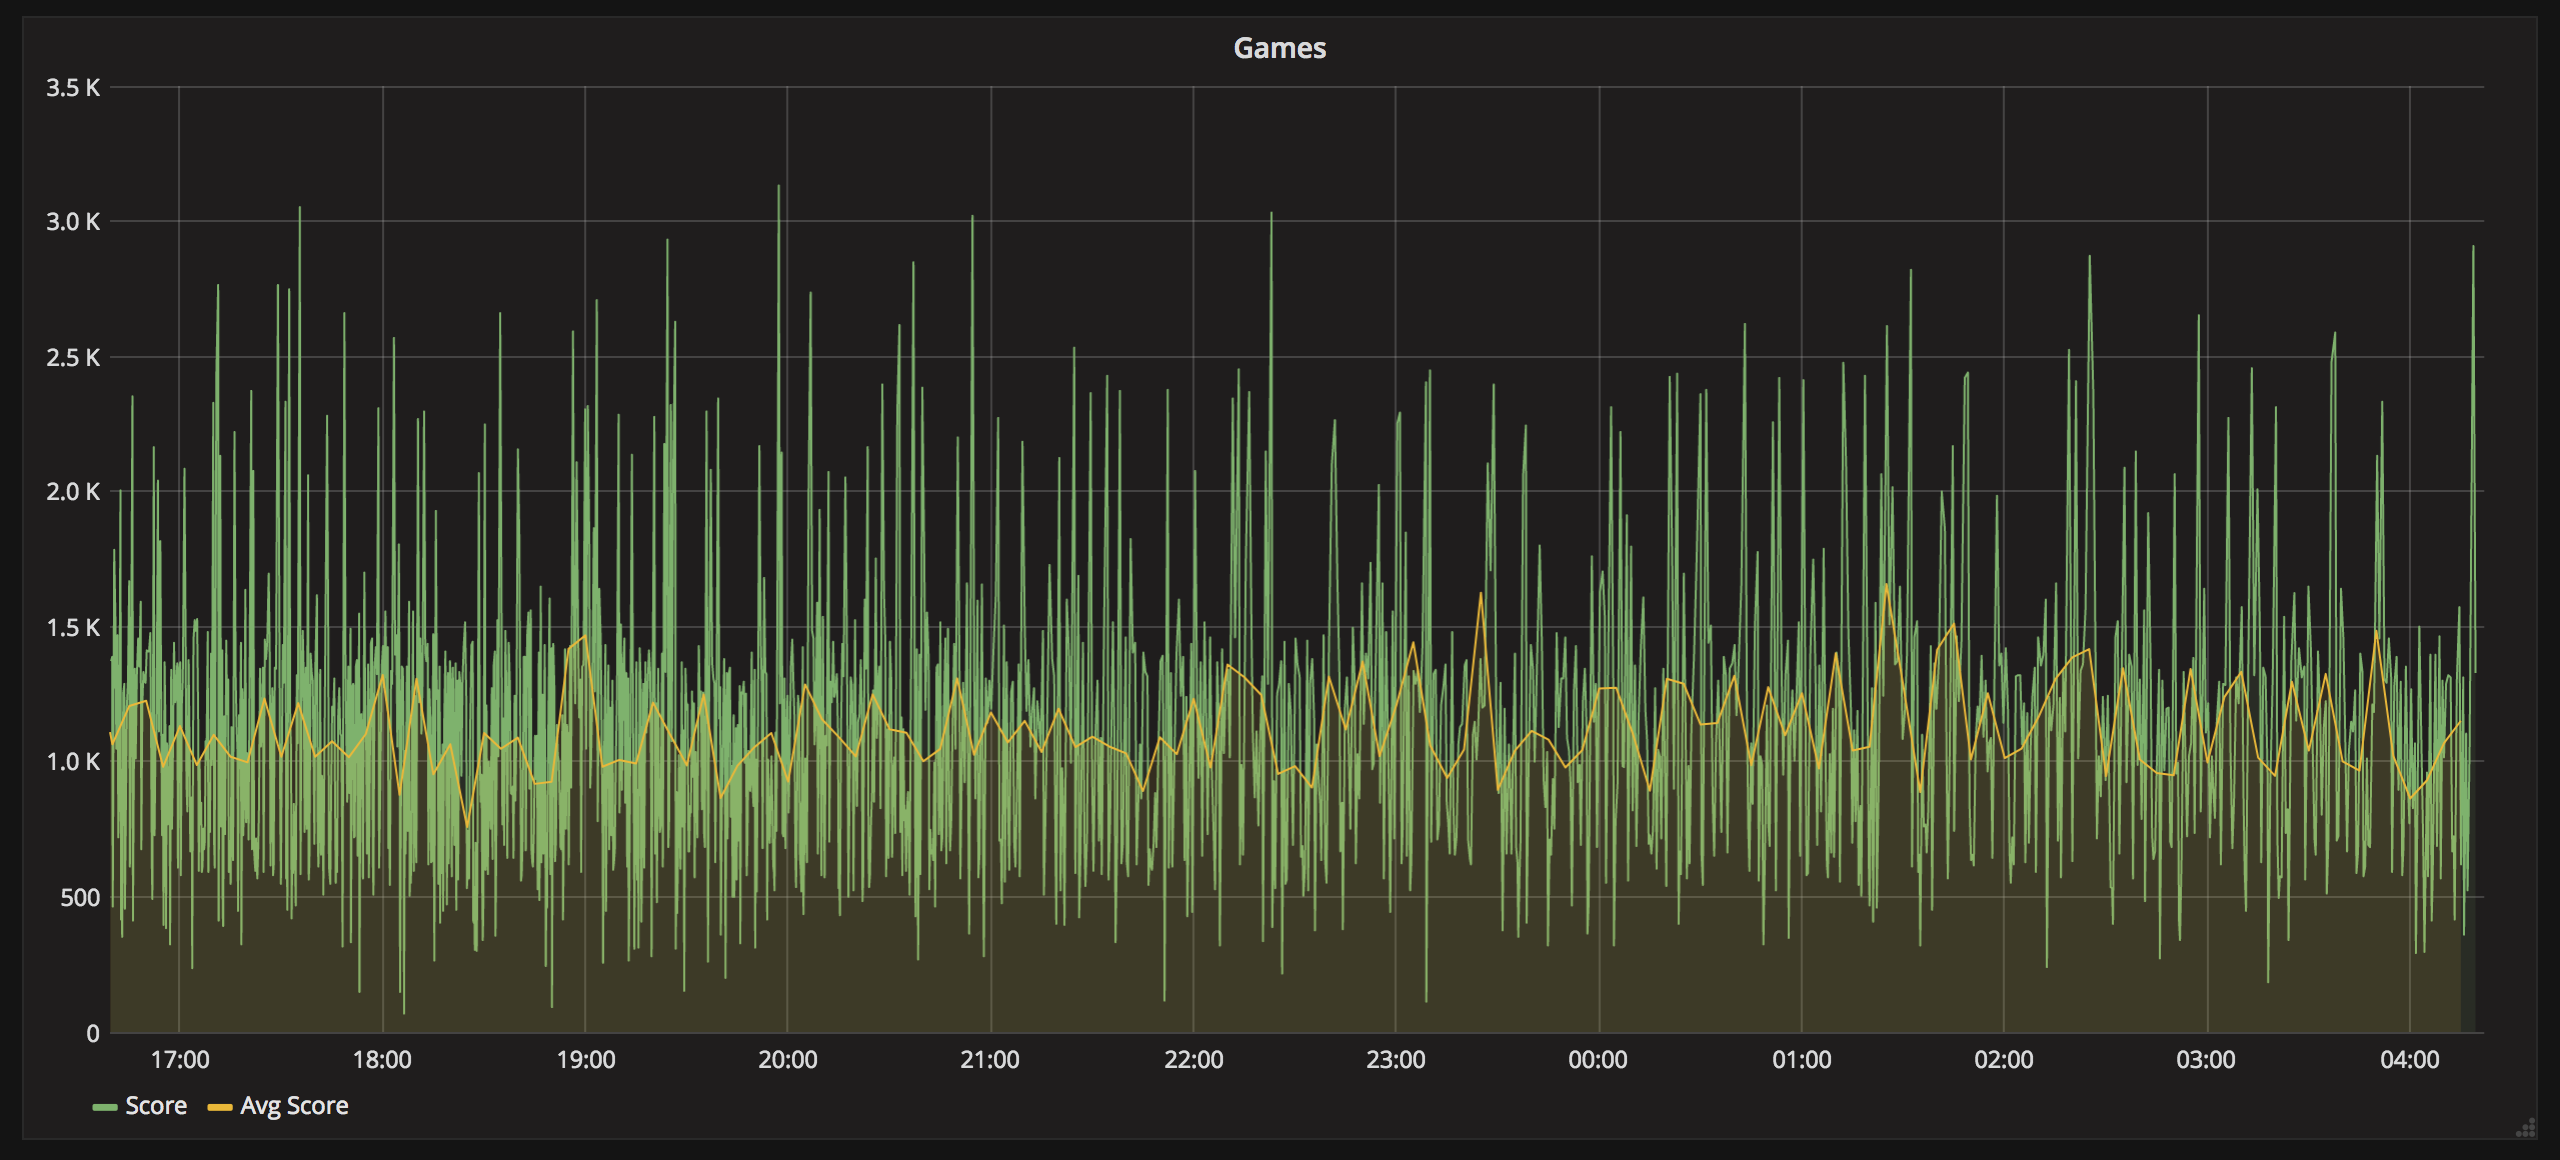
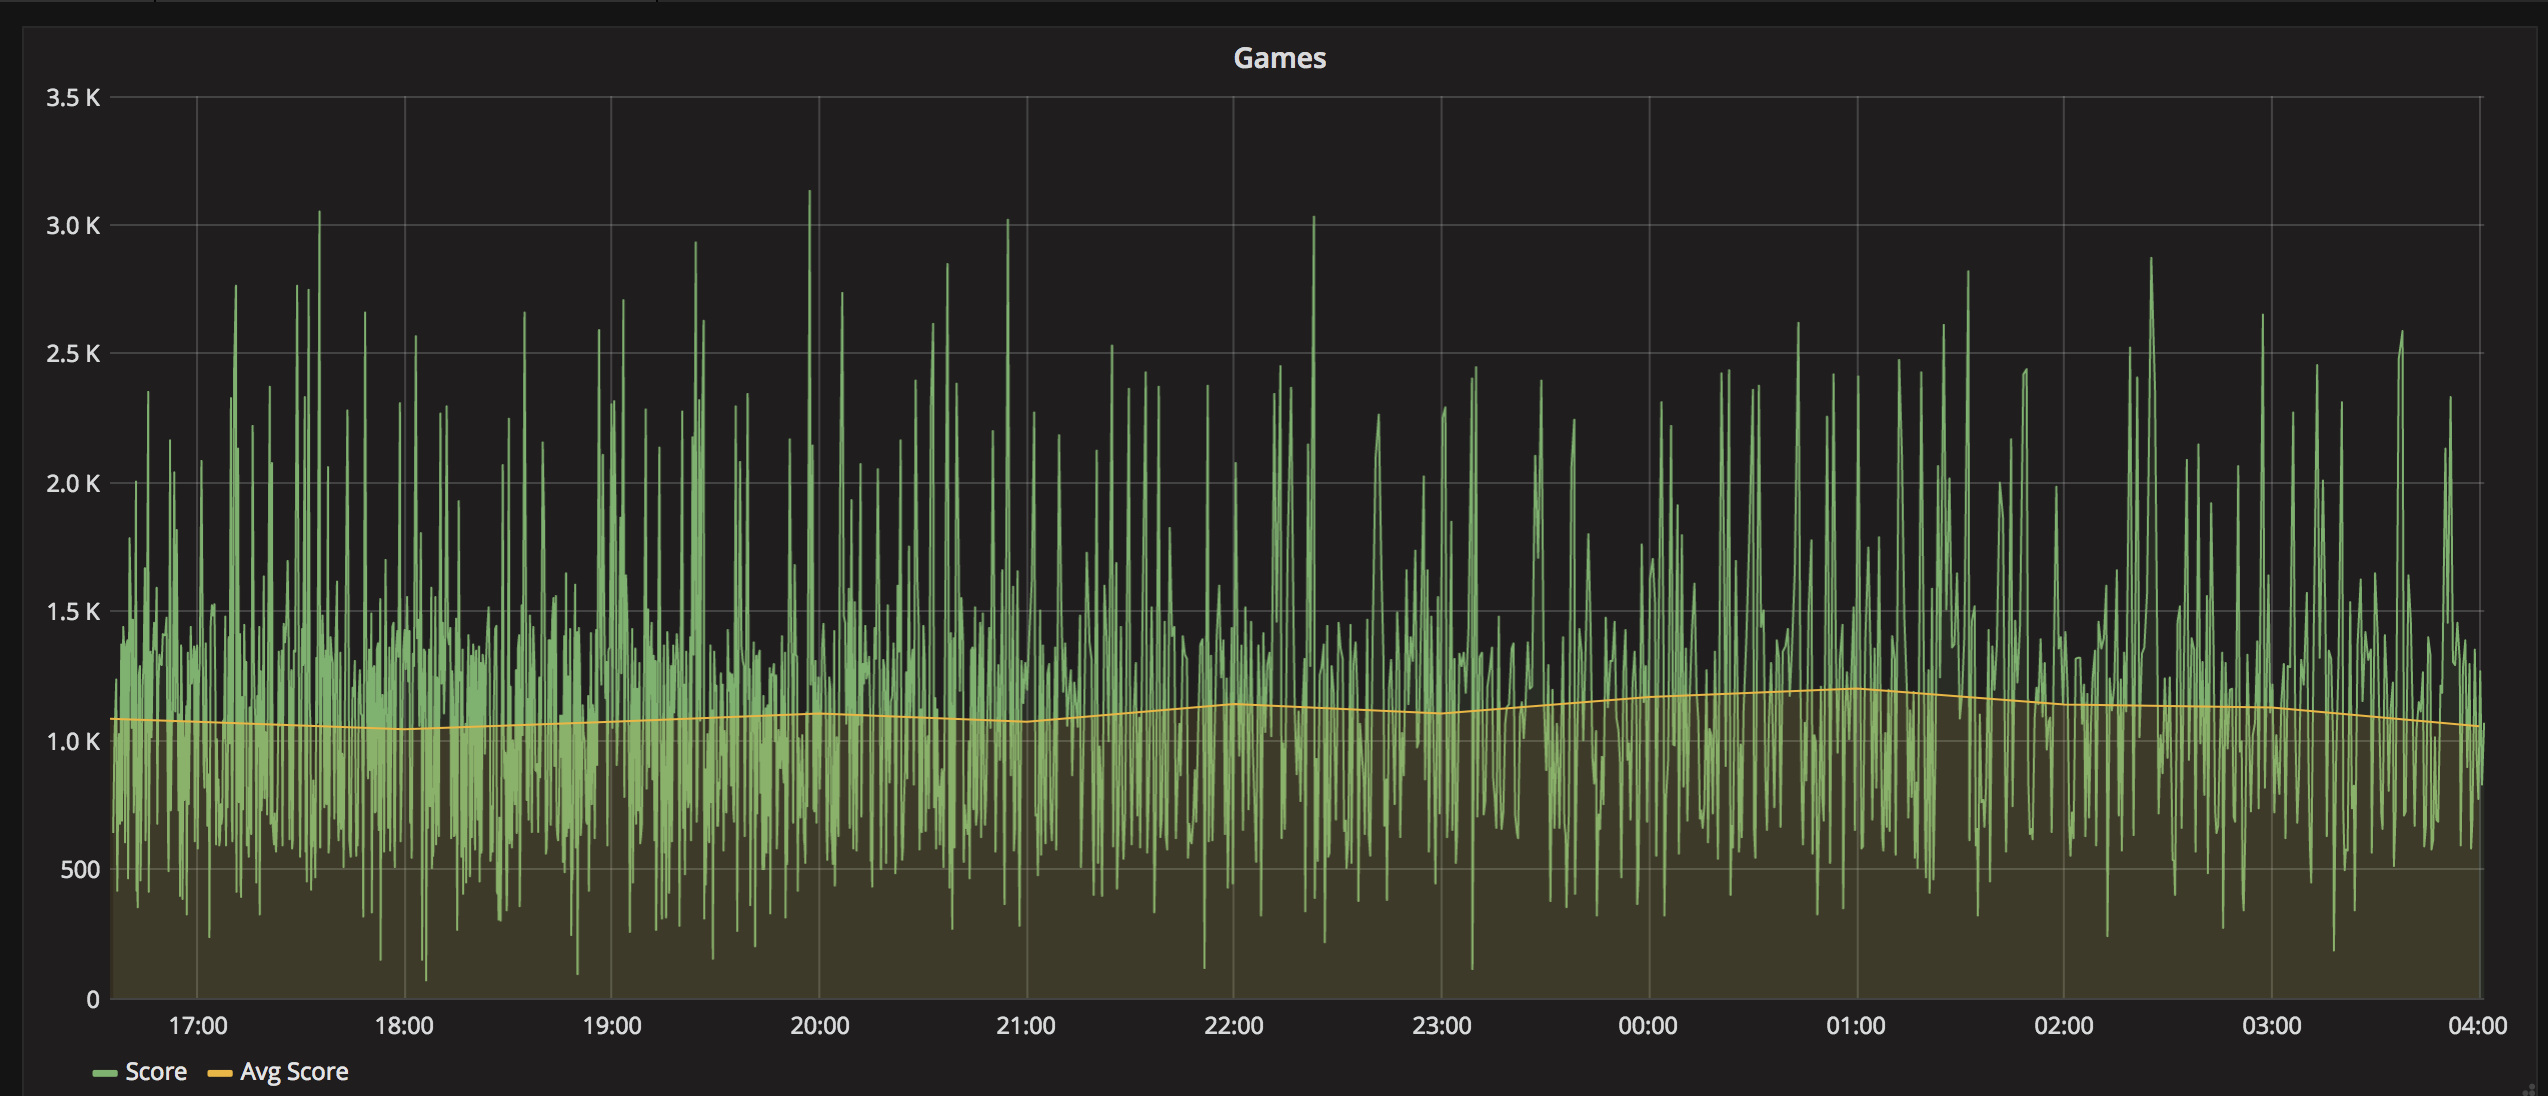
codetalks slides

diff --git a/index.html b/index.html
@@ -237,12 +237,16 @@
         </section>
         <section>
             <h1><a href="http://cs.stanford.edu/people/karpathy/reinforcejs/">REINFORCEjs</a></h1>
-            <section data-transition="slide-out"></section>
+            <section data-transition="slide-out">
+                <aside class="notes">
+                    andrej kaparthy director of AI at tesla
+                </aside>
+            </section>
             <section data-transition="slide-in">
                 <pre><code class="javascript" data-trim>
                     const state = [0, 2, 2, ..., 0];
                     const action = agent.act(state);
-                    const reward = calculateReward();
+                    const reward = calculateReward(action);
                     agent.learn(reward);
                 </code></pre>
             </section>
@@ -255,35 +259,41 @@
             <section data-transition="slide-out"></section>
             <section data-transition="slide-in slide-out">
                 <h2>Reward = Score</h2>
-            </section>
-            <section data-transition="slide-in slide-out" style="margin-top: 75px">
-                <img src="assets/grafana/oneLayerScore.png">
-            </section>
-            <section data-transition="slide-in slide-out" style="margin-top: 75px">
-                <img src="assets/grafana/oneLayerScore-avgScore.png">
-            </section>
-        </section>
-        <section>
-            <h1>Second iteration</h1>
-            <section data-transition="slide-out">
                 <aside class="notes">
-                    Problem with flat input, added second layer
+                    Problem with flat input in a run before, added second layer
                 </aside>
             </section>
             <section data-transition="slide-in slide-out" style="margin-top: 75px">
                 <img src="assets/grafana/twoLayerScore_Games.png">
             </section>
             <section data-transition="slide-in slide-out" style="margin-top: 75px">
-                <img src="assets/grafana/twoLayerScore_GamesAvg.png">
+                <img src="assets/grafana/twoLayerScoreGamesAvg.png">
             </section>
         </section>
         <section>
-            <h1>Third iteration</h1>
-            <section data-transition="slide-out"></section>
+            <h1>Second iteration</h1>
+            <section data-transition="slide-out">
+                <aside class="notes">
+                    Decay Score
+                </aside>
+            </section>
             <section data-transition="slide-in slide-out">
                 <h2>decay $\epsilon$ over time</h2>
                 <h4>(exploration)</h4>
             </section>
+            <section data-transition="slide-in slide-out" style="margin-top: 75px">
+                <img src="assets/grafana/twoLayerDecayScore_Games.png">
+            </section>
+            <section data-transition="slide-in slide-out" style="margin-top: 75px">
+                <img src="assets/grafana/twoLayersDecayScore_GamesAvg.png">
+            </section>
+        </section>
+        <section>
+            <h1>Third iteration</h1>
+            <aside class="notes">
+                Delayed reward
+            </aside>
+            <section data-transition="slide-out"></section>
             <section data-transition="slide-in slide-out" style="margin-top: 75px">
                 <img src="assets/grafana/twoLayerDecayScoreGames.png">
             </section>
@@ -316,7 +326,7 @@
                 <h2>flat input</h2>
             </section>
             <section data-transition="slide-in slide-out">
-                <h2>one hidden layer</h2>
+                <h2>hardcoded layers</h2>
             </section>
         </section>
         <section>
